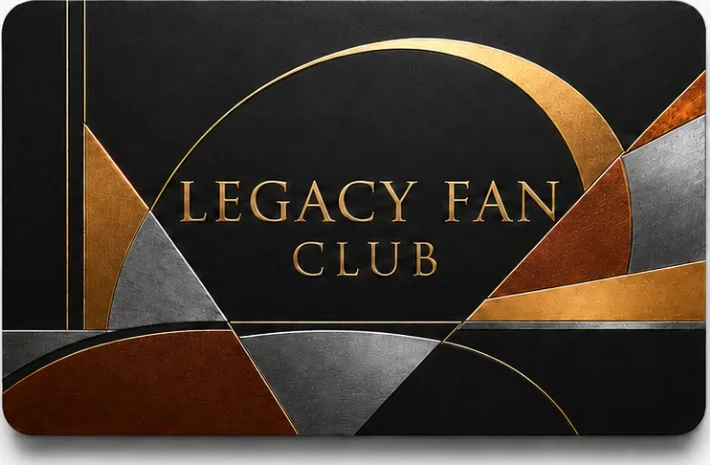
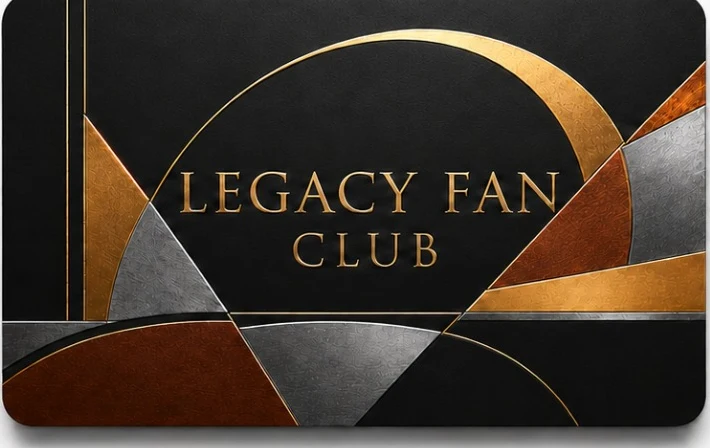
Carnet reverso: usar imagen limpia oficial (alta resolucion) del usuario
- Reverso = Recursos/Tarjeta Para Socio Trasera.png (limpia, footer horneado,
  arco completo, alta resolucion). Sin difuminados.
- Se superpone solo Nombre + Nº en oro, centrado en el panel oscuro encima del
  footer. Se elimina el footer CSS (ya viene en la imagen, no se duplica).
- Ambas caras al ratio estandar de tarjeta 1.585; portada recortada a ese ratio.

diff --git a/src/components/brand/member-card.tsx b/src/components/brand/member-card.tsx
@@ -30,7 +30,7 @@ export function DigitalMemberCard({
   return (
     <div
       className="relative w-full overflow-hidden rounded-2xl bg-[#0c0c0e] shadow-card"
-      style={{ aspectRatio: '714 / 466', containerType: 'inline-size' }}
+      style={{ aspectRatio: '1579 / 996', containerType: 'inline-size' }}
     >
       {/* Imagen real del carnet */}
       {/* eslint-disable-next-line @next/next/no-img-element */}
@@ -44,10 +44,11 @@ export function DigitalMemberCard({
       {/* Reverso: nombre + número + leyenda + footer (texto vivo, en oro). */}
       {isBack && active ? (
         <>
-          {/* Solo nombre + número, centrados en el panel oscuro de la derecha */}
+          {/* Solo nombre + número, centrados en el panel oscuro (encima del
+              footer, que ya viene horneado en la imagen). */}
           <div
             className="absolute flex flex-col items-center text-center"
-            style={{ left: '33%', right: '3%', top: '50%', transform: 'translateY(-50%)', color: GOLD }}
+            style={{ left: '37%', right: '3%', top: '46%', transform: 'translateY(-50%)', color: GOLD }}
           >
             {name ? (
               <span
@@ -59,26 +60,18 @@ export function DigitalMemberCard({
             ) : null}
             <span
               className="font-sans font-semibold"
-              style={{ fontSize: '6.7cqw', lineHeight: 1.15, marginTop: '2.8cqw', letterSpacing: '0.01em' }}
+              style={{ fontSize: '6.7cqw', lineHeight: 1.15, marginTop: '2.6cqw', letterSpacing: '0.01em' }}
             >
               <span style={{ fontSize: '3.6cqw', verticalAlign: '0.95em', marginRight: '0.25em' }}>Nº</span>
               {number}
             </span>
           </div>
 
-          {/* Footer (se mantiene tal cual) */}
-          <div
-            className="absolute text-center font-sans"
-            style={{ left: '33%', right: '3%', bottom: '7%', color: GOLD, opacity: 0.78, fontSize: '1.55cqw', letterSpacing: '0.06em' }}
-          >
-            Legacy-fan.com · © Legacy Fan Precious Metals LLC.
-          </div>
-
           {/* QR firmado (solo si el sistema de carnet está activo) */}
           {qrDataUri ? (
             <div
               className="absolute rounded-md bg-white shadow-card"
-              style={{ top: '8%', right: '5%', width: '15%', padding: '1%' }}
+              style={{ top: '7%', right: '5%', width: '14%', padding: '1%' }}
             >
               {/* eslint-disable-next-line @next/next/no-img-element */}
               <img src={qrDataUri} alt={`QR socio ${number}`} className="h-full w-full" />
